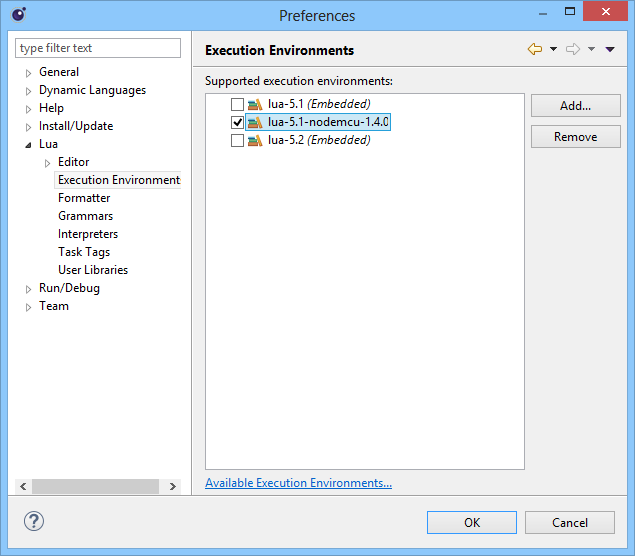
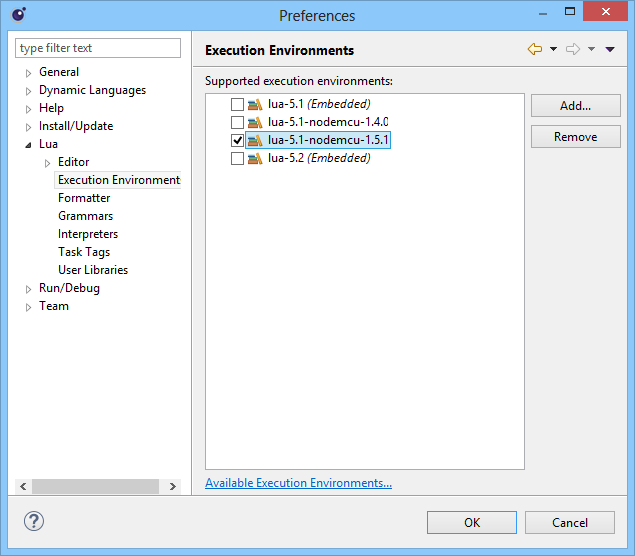
changed readme
added new picture
changed picture

Changed region(s): [[0.3591, 0.1835, 0.6283, 0.3058]]

diff --git a/README.md b/README.md
@@ -19,15 +19,20 @@ You can build your custom NodeMCU firmware at http://nodemcu-build.com (or use o
 ##Installation
 Download the zip file in the "release" directory of your desired NodeMCU Version of this repository or use the direct links:
 
-NodeMCU 1.4.0: https://github.com/prikril/ldt-nodemcu/raw/master/lua5.1-nodemcu1.4.0/release/lua5.1-nodemcu1.4.0.zip
+*old (only minimal LDT integration):*
 
-NodeMCU 1.5.1: https://github.com/prikril/ldt-nodemcu/raw/master/lua5.1-nodemcu1.5.1/release/lua5.1-nodemcu1.5.1.zip
+*NodeMCU 1.4.0: https://github.com/prikril/ldt-nodemcu/raw/master/lua5.1-nodemcu1.4.0/release/lua5.1-nodemcu1.4.0.zip*
+
+**current (recommended version):**
+
+**NodeMCU 1.5.1: https://github.com/prikril/ldt-nodemcu/raw/master/lua5.1-nodemcu1.5.1/release/lua5.1-nodemcu1.5.1.zip**
+
 
 Open LDT (or Eclipse) and go to Preferences. On the left side choose "Lua".
 
 Click on "Execution Environment" and then the "Add..." button.
 
-![Add zip](/pics/add-ee-compact01.png?raw=true)
+![Add zip](/pics/add-ee-compact02.png?raw=true)
 
 Select the downloaded zip file. Then you should see it in the list of the Execution Environments.
 
